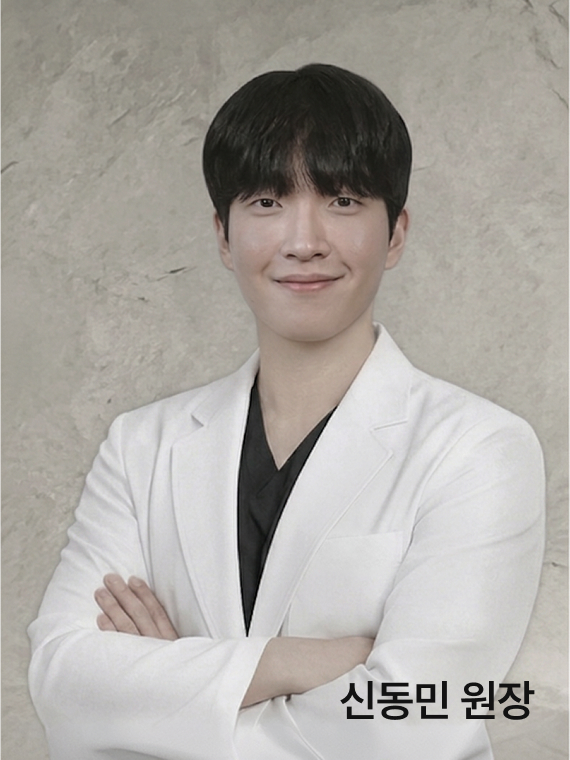
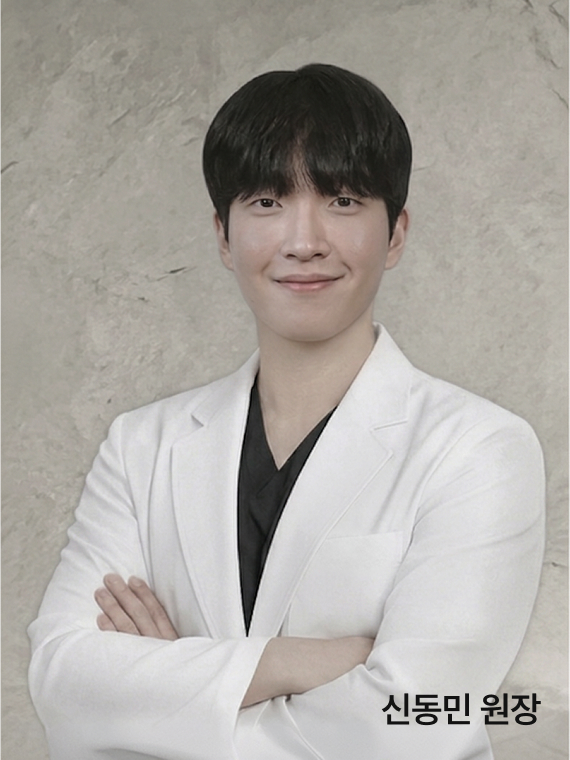
fix: 의료진 사진 재교체 + 대표·총괄원장 아랫줄과 동일 폭 중앙 정렬 (v1.27.4)

Changed region(s): [[0.5965, 0.8776, 0.9544, 0.9684]]

diff --git a/src/pages/doctor/doctor.page.tsx b/src/pages/doctor/doctor.page.tsx
@@ -148,9 +148,9 @@ const Section3 = styled.section`
 const Section3Title = tw.h2`
   text-[24px] md:text-[30px] font-pretendard font-semibold text-neutralBlack tracking-tight leading-[1.4] text-center
 `
-/* 대표·총괄원장: 한 줄에 2명 (가로형 사진) */
+/* 대표·총괄원장: 2명, 아랫줄과 같은 폭으로 중앙 정렬 */
 const DoctorCardRowLead = styled.div`
-  ${tw`grid grid-cols-2 items-start w-full`}
+  ${tw`flex justify-center items-start w-full`}
   gap: 20px;
 `
 /* 나머지 원장: PC 한 줄에 4명, 모바일 2명 (세로형 사진) */
@@ -165,6 +165,17 @@ const DoctorCard = styled.div`
 
   @media (min-width: 768px) {
     gap: 20px;
+  }
+`
+/* 대표·총괄 카드: 아랫줄 한 칸과 동일 폭(모바일 2열·PC 4열 기준)으로 고정 */
+const DoctorCardLead = styled.div`
+  ${tw`flex flex-col items-center`}
+  gap: 12px;
+  width: calc((100% - 20px) / 2);
+
+  @media (min-width: 768px) {
+    gap: 20px;
+    width: calc((100% - 60px) / 4);
   }
 `
 /* 컨테이너 가로 폭을 꽉 채우고 원본 비율 유지 */
@@ -298,14 +309,14 @@ const DoctorPage = () => {
           {/* Section 3: 의료진 카드 */}
           <Section3>
             <Section3Title>{t("doctor.teamTitle")}</Section3Title>
-            {/* 대표·총괄원장 — 한 줄 2명 */}
+            {/* 대표·총괄원장 — 2명, 아랫줄과 같은 폭으로 중앙 정렬 */}
             <DoctorCardRowLead>
-              <DoctorCard>
+              <DoctorCardLead>
                 <DoctorCardImage src={doctorAhnProfile} alt="안태언 대표원장" />
-              </DoctorCard>
-              <DoctorCard>
+              </DoctorCardLead>
+              <DoctorCardLead>
                 <DoctorCardImage src={doctorChoiProfile} alt="최재형 총괄원장" />
-              </DoctorCard>
+              </DoctorCardLead>
             </DoctorCardRowLead>
             {/* 나머지 원장 — 한 줄 4명(모바일 2명): 신동민·박해권·조진형·홍채민 */}
             <DoctorCardRowRest>

diff --git a/CHANGELOG.md b/CHANGELOG.md
@@ -4,6 +4,15 @@
 
 ---
 
+## [1.27.4] - 2026-08-04
+
+### Changed
+
+- 의료진 사진 재교체(신동민·박해권·조진형·홍채민).
+- 대표원장·총괄원장 사진 크기를 아랫줄 원장들과 동일 폭으로 축소하고 2명 중앙 정렬(비중이 과하게 크던 것 조정).
+
+---
+
 ## [1.27.3] - 2026-08-04
 
 ### Changed
